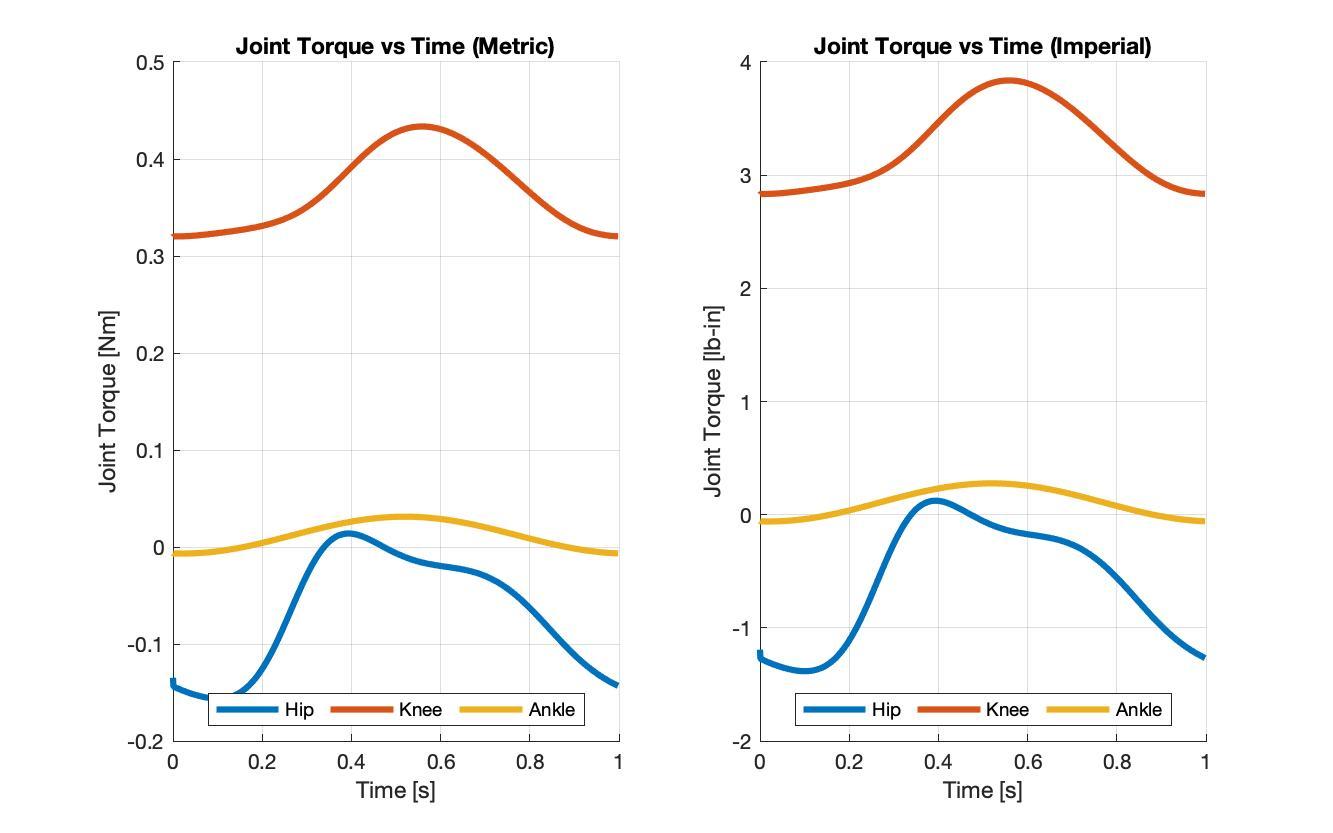
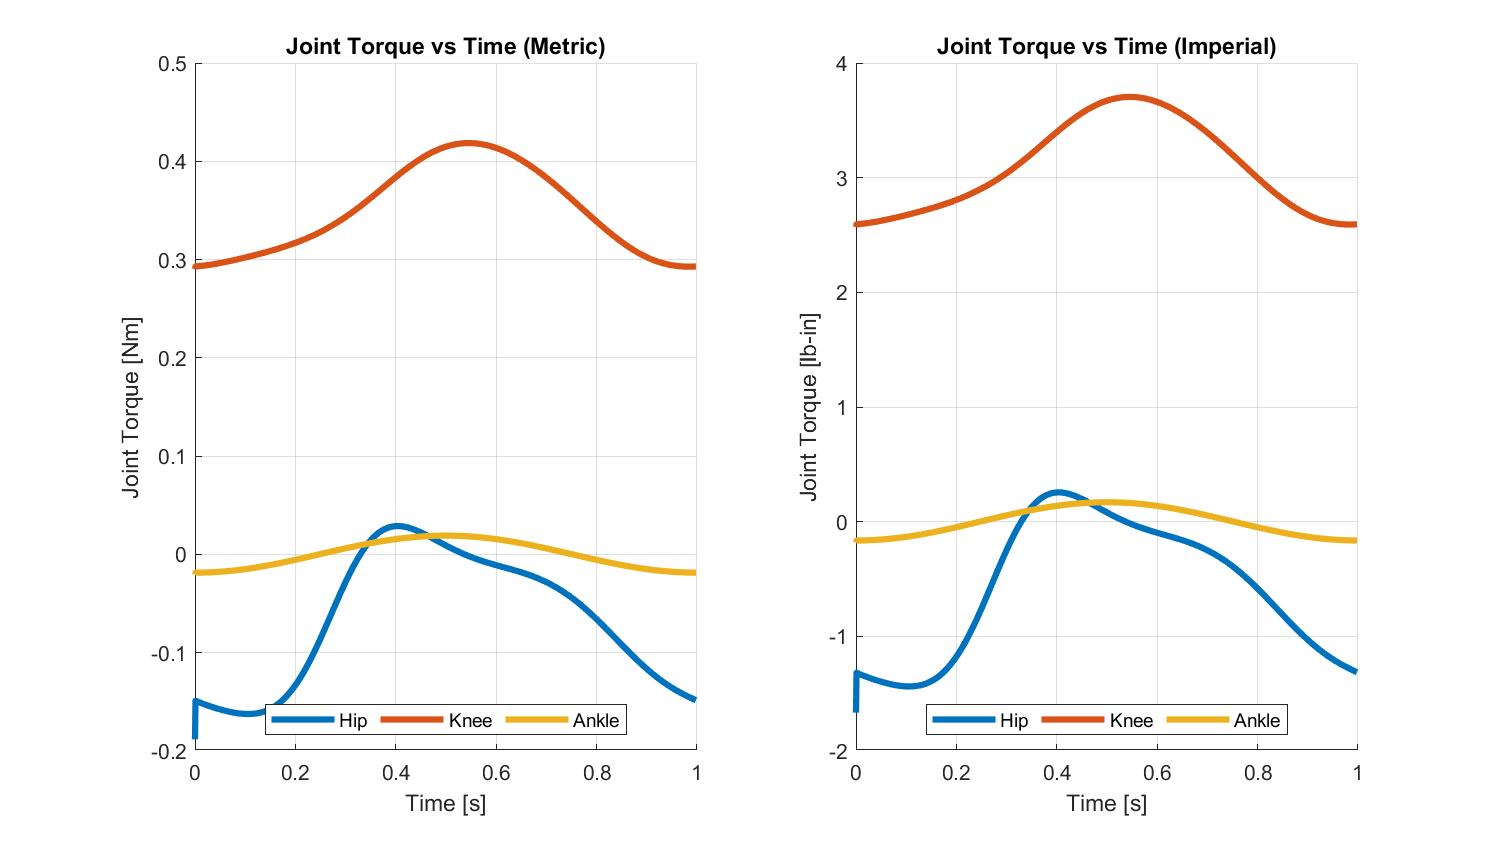
Changed screw Axis

diff --git a/Code/Matlab/Analysis/Dynamic_Simulation/QuadrupedSimulationNew.m b/Code/Matlab/Analysis/Dynamic_Simulation/QuadrupedSimulationNew.m
@@ -178,21 +178,20 @@ Ps_Ba_hipext = dlmread('Ba_hipext.txt');
 Ps_Ba_hipflx = dlmread('Ba_hipflx.txt');
 Ps_Ba_ankleflx = dlmread('Ba_ankleflx.txt')
 
+% initial muscle lengths 
+Ps_hipext = dlmread('Ma_hipext.txt');
+Ps_hipflx = dlmread('Ma_hipflx.txt');
+Ps_kneeext = dlmread('Ma_kneeext.txt');
+Ps_kneeflx = dlmread('Ma_kneeflx.txt');
+Ps_ankleext = dlmread('Ma_ankleext.txt');
+Ps_ankleflx = dlmread('Ma_ankleflx.txt');
+% the following files are for the biarticular muscles, uncomment when ready
+Ps_Ba_hipext = dlmread('Ba_hipext.txt');
+Ps_Ba_hipflx = dlmread('Ba_hipflx.txt');
+Ps_Ba_ankleflx = dlmread('Ba_ankleflx.txt')
 
 
 
-
-
-% plot3(Ps_hipext(1,:,1),Ps_hipext(2,:,1),Ps_hipext(3,:,1),'-or', 'linewidth', 4);
-% plot3(Ps_hipflx(1,:,:),Ps_hipflx(2,:,:),Ps_hipflx(3,:,:), 'linewidth', 4);
-% plot3(Ps_kneeext(1,:,:),Ps_kneeext(2,:,:),Ps_kneeext(3,:,:), 'linewidth', 4);
-% plot3(Ps_kneeflx(1,:,:),Ps_kneeflx(2,:,:),Ps_kneeflx(3,:,:), 'linewidth', 4)
-% plot3(Ps_ankleext(1,:,:),Ps_ankleext(2,:,:),Ps_ankleext(3,:,:), 'linewidth', 4)
-% plot3(Ps_ankleflx(1,:,:),Ps_ankleflx(2,:,:),Ps_ankleflx(3,:,:), 'linewidth', 4)
-% plot3(Ps_Ba_hipext(1,:,:),Ps_Ba_hipext(2,:,:),Ps_Ba_hipext(3,:,:), 'linewidth', 4)
-% plot3(Ps_Ba_hipflx(1,:,:),Ps_Ba_hipflx(2,:,:),Ps_Ba_hipflx(3,:,:), 'linewidth', 4)
-% plot3(Ps_Ba_ankleflx(1,:,:),Ps_Ba_ankleflx(2,:,:),Ps_Ba_ankleflx(3,:,:), 'linewidth', 4)
-% 
 
 
 % add names of new muscles to existing list
@@ -210,6 +209,9 @@ muscle_names = cat(1, muscle_names, new_muscle_names);
 % dimension 4: timesteps
 
 Phome_muscles = cat(3, Ps_hipext, Ps_hipflx, Ps_kneeext, Ps_kneeflx, Ps_ankleext, Ps_ankleflx, Ps_Ba_hipext, Ps_Ba_hipflx, Ps_Ba_ankleflx);
+
+
+
 figure 
 xlabel('X')
 ylabel('Y')
@@ -318,10 +320,22 @@ Add Screw Axis for the Hip Adduction and Abduction S2 = {1,0,0,0,0,0}';
 % S1 = [0; 0; 1; 0; 0; 0];
 % S2 = [0; 0; 1; 0; -Lx1; 0];
 % S3 = [0; 0; 1; 0; -(Lx1 + Lx2); 0];
+r1 = [Phome_joint1(1); Phome_joint1(2);Phome_joint1(3)];
+r2 = [Phome_joint2(1); Phome_joint2(2);Phome_joint2(3)];
+r3 = [Phome_joint3(1); Phome_joint3(2);Phome_joint3(3)];
 
-S1 = [0; 0; 1; 0; -Phome_joint1(1); 0];
-S2 = [0; 0; 1; 0; -Phome_joint2(1); 0];
-S3 = [0; 0; 1; 0; -Phome_joint3(1); 0];
+v1 = cross(r1,w1_local);
+v2 = cross(r2,w2_local);
+v3 = cross(r3,w3_local);
+
+S1 = [w1_local;v1];
+S2 = [w2_local;v2];
+S1 = [w3_local;v3];
+
+
+% S1 = [0; 0; 1; 0; -Phome_joint1(1); 0];
+% S2 = [0; 0; 1; 0; -Phome_joint2(1); 0];
+% S3 = [0; 0; 1; 0; -Phome_joint3(1); 0];
 Ss = [S1 S2 S3];
 
 % With lateral hip axis
@@ -474,7 +488,7 @@ eomg = 1e-6; ev = 1e-6;
 theta_guess = (pi/180)*[-143; 63; -10.21];
 
 % Compute the joint angles associated with the desired trajectory.
-[thetas_desired, successes] = InverseKinematics(Ss, Mend, Ts_desired, theta_guess, eomg, ev)
+[thetas_desired, successes] = InverseKinematics(Ss, Mend, Ts_desired, theta_guess, eomg, ev);
 % theta1 = linspace(0, 2*pi, num_timesteps); theta2 = linspace(0, 2*pi, num_timesteps); theta3 = linspace(0, 2*pi, num_timesteps); thetas_desired = [theta1; theta2; theta3];
 % theta1 = (pi/4)*ones(1, num_timesteps); theta2 = 0*ones(1, num_timesteps); theta3 = 0*ones(1, num_timesteps); thetas_desired = [theta1; theta2; theta3];
 % theta1 = linspace(0, 2*pi, num_timesteps); theta2 = 0*ones(1, num_timesteps); theta3 = 0*ones(1, num_timesteps); thetas_desired = [theta1; theta2; theta3];
@@ -518,7 +532,6 @@ fprintf('COMPUTING FORWARD KINEMATICS SOLUTION AT NON-END EFFECTOR POINTS (i.e.,
 
 
 %% Compute the Muscle Lengths Throughout the Desired Trajectory.
-
 % Compute the muscle lengths, velocities, and accelerations associated with the desired trajectory.
 Lmuscles_desired = GetMuscleLengths( Pmuscles_desired );
 
